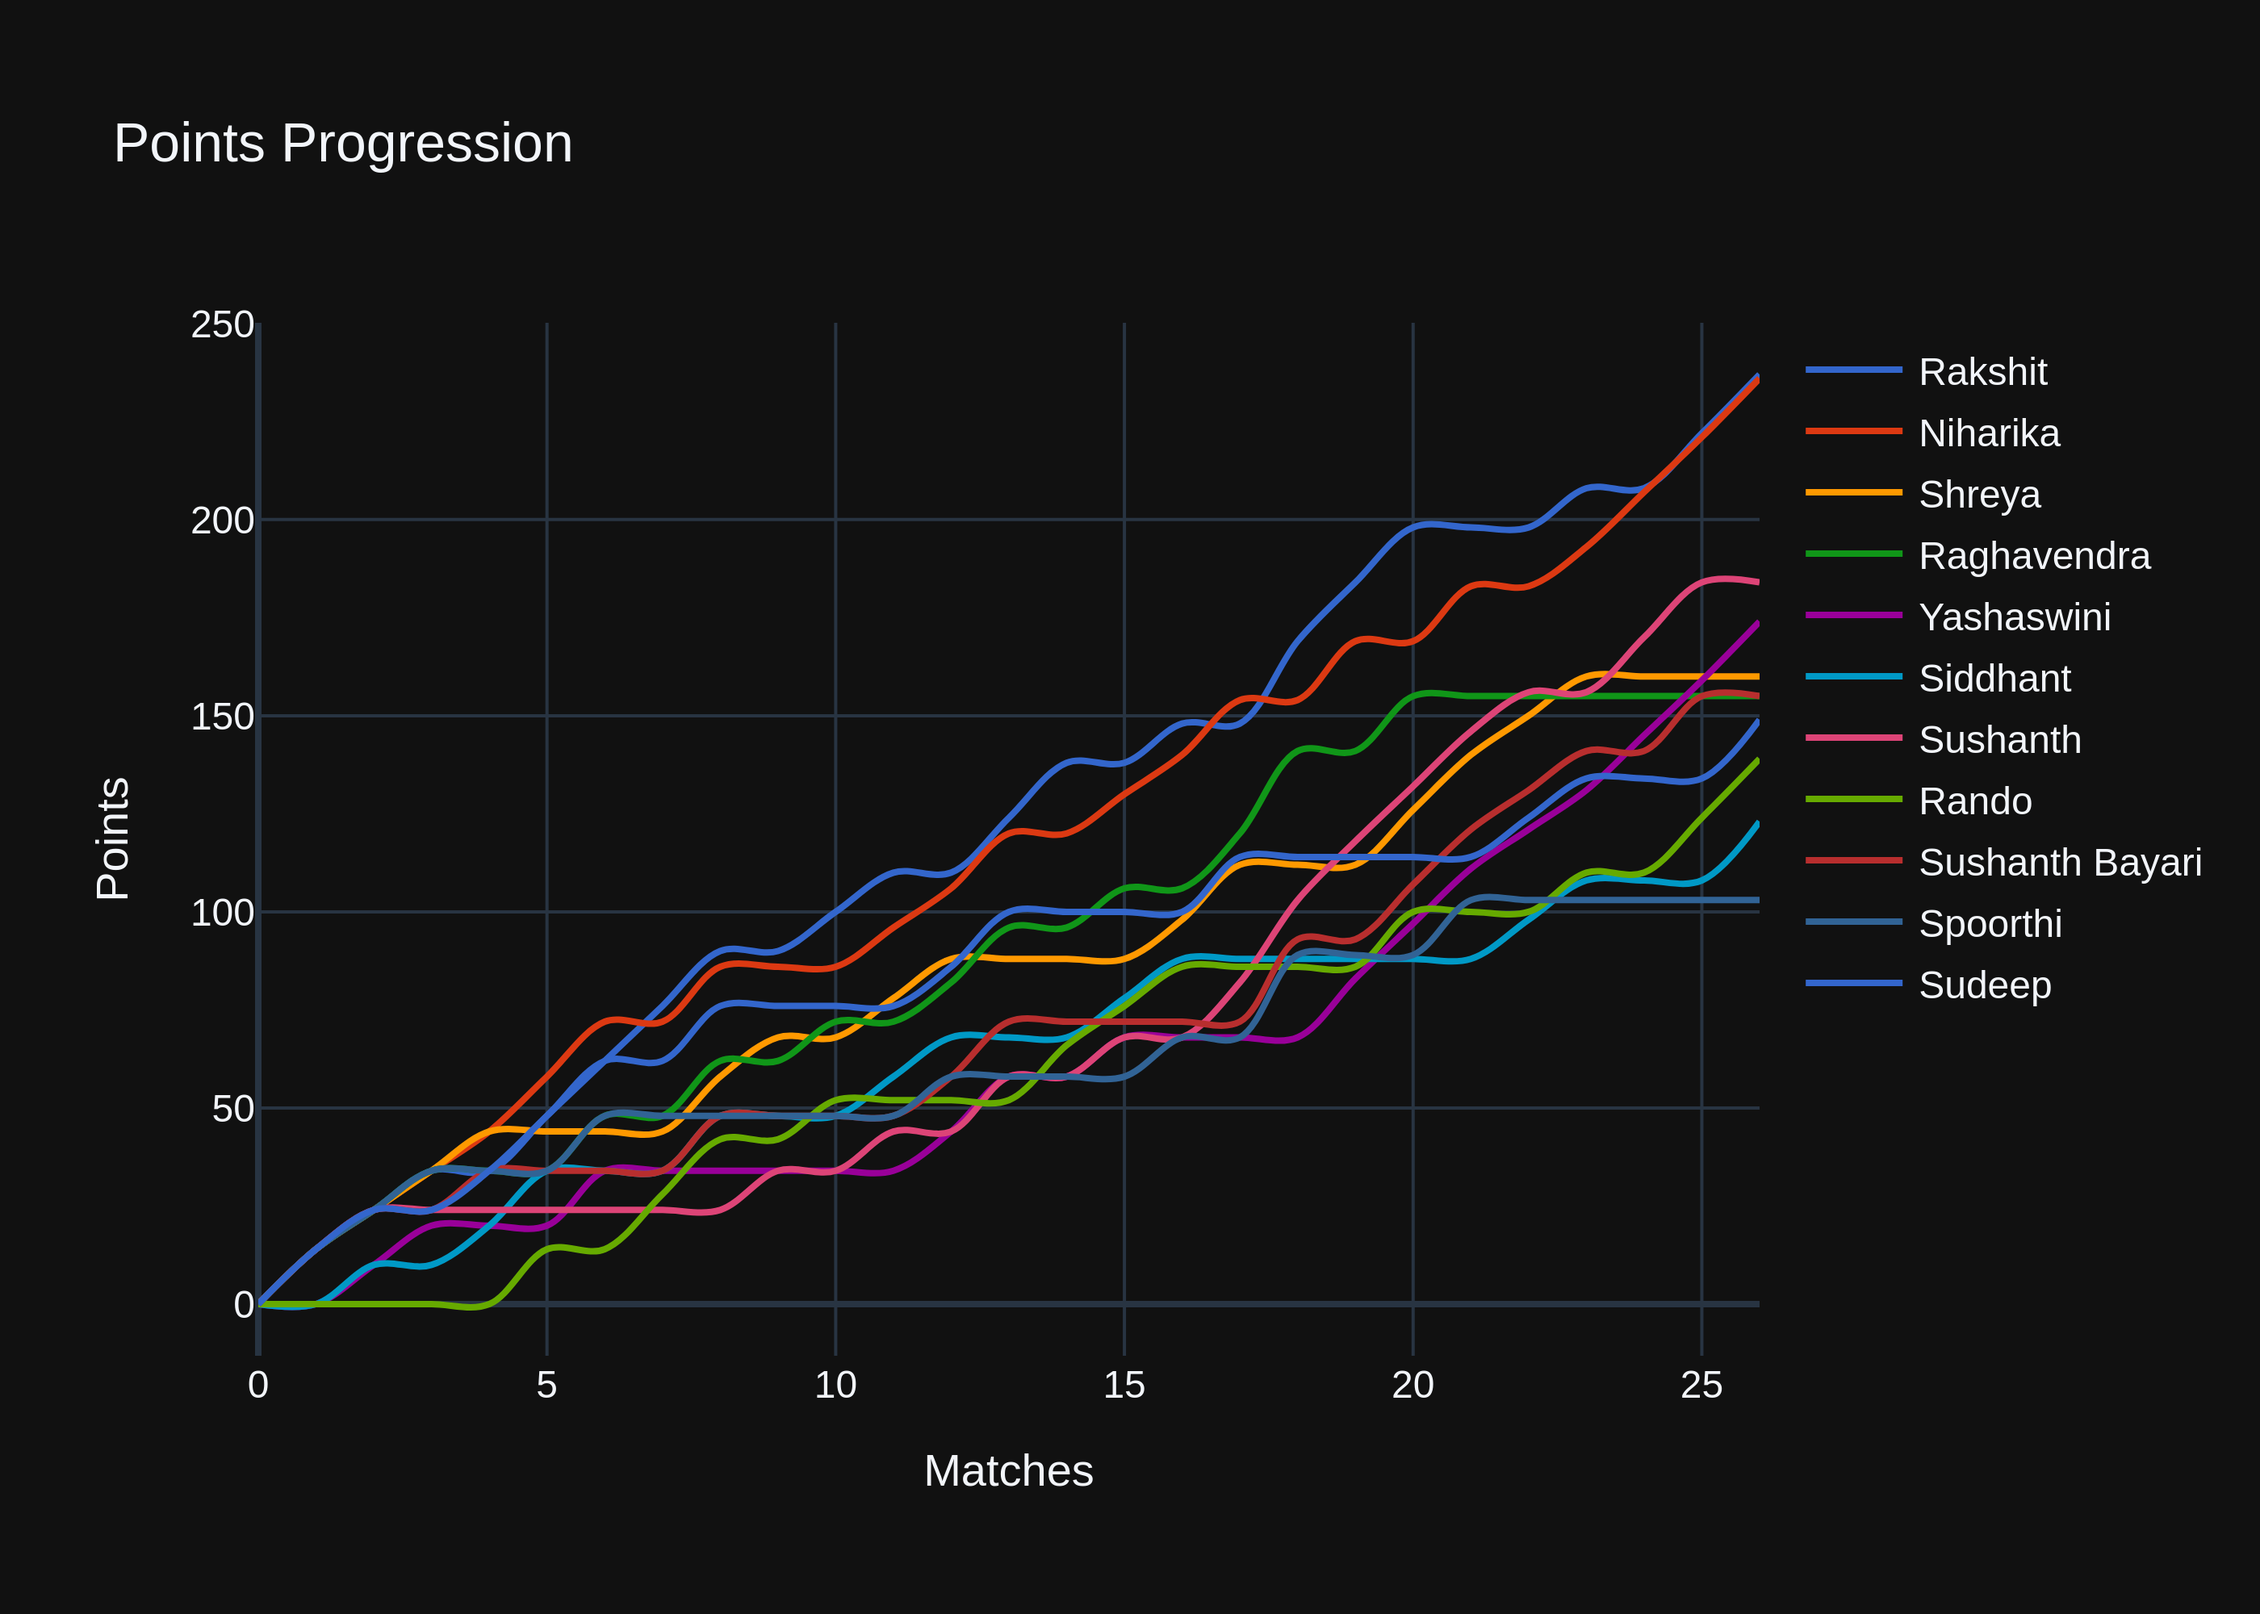
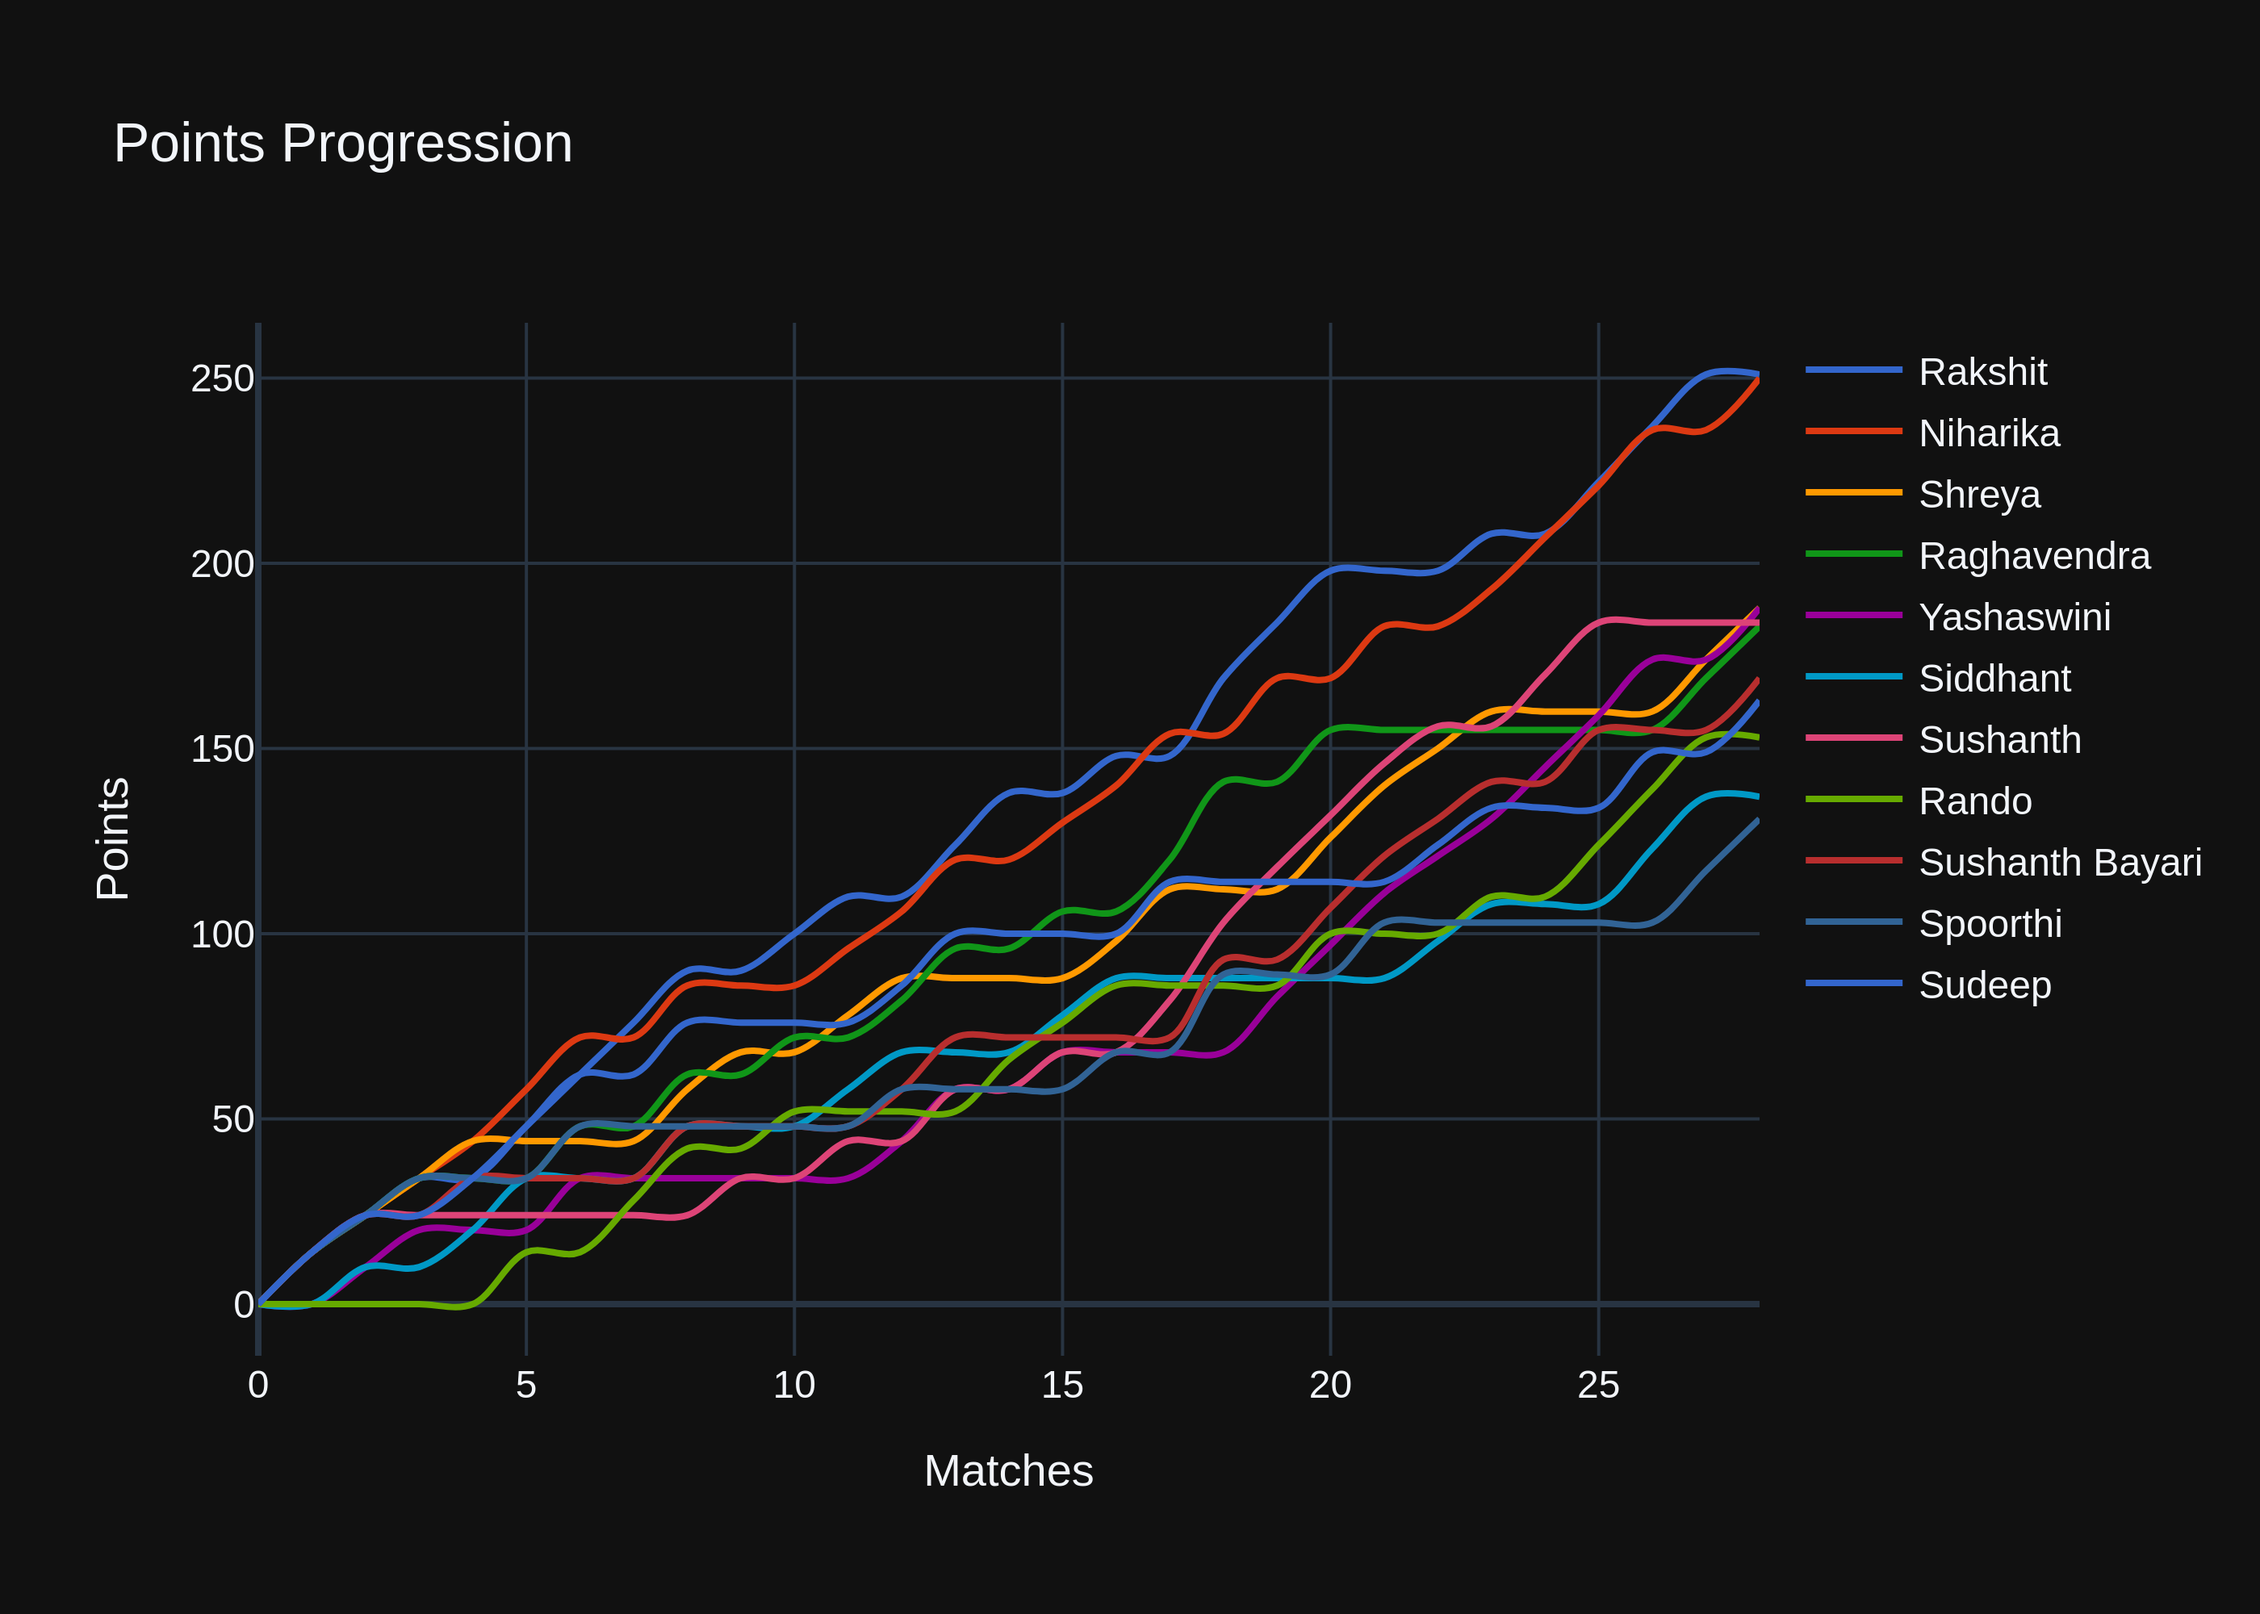
updated until RR vs RCB

diff --git a/ExtractAndTransform.py b/ExtractAndTransform.py
@@ -62,6 +62,12 @@ def calculate_scores(results_df, predictions):
         # total_predicted_points = 0
         # total_bonus_points = 0
         last_five_results = []
+        longest_winning_streak = 0
+        current_winning_streak = 0
+        winning_period = ""
+        longest_losing_streak = 0
+        current_losing_streak = 0
+        losing_period = ""
 
         for i, row in completed_matches.iterrows():
             actual_winner = row["Winner"]
@@ -78,7 +84,17 @@ def calculate_scores(results_df, predictions):
                 score += points_earned
                 correct_predictions += 1
                 last_five_results.append("✅")
+                current_winning_streak +=1
+                current_losing_streak = 0
+                if current_winning_streak >= longest_winning_streak:
+                    longest_winning_streak = current_winning_streak
+                    winning_period = completed_matches.iloc[i-longest_winning_streak+1]["Date"] + " - " + row["Date"]  
             else:
+                current_losing_streak += 1 
+                current_winning_streak = 0
+                if current_losing_streak >= longest_losing_streak:
+                    longest_losing_streak = current_losing_streak
+                    losing_period = completed_matches.iloc[i-longest_losing_streak+1]["Date"] + " - " + row["Date"]
                 last_five_results.append("❌")
             
             matchwise_points.append(points_earned)
@@ -92,7 +108,11 @@ def calculate_scores(results_df, predictions):
             # "Total Predicted Points": total_predicted_points,
             # "Bonus Points": total_bonus_points,
             "Matchwise Points (Last 5)": matchwise_points[-5:],
-            "Last 5 Matches": " ".join(last_five_results[-5:])
+            "Last 5 Matches": " ".join(last_five_results[-5:]),
+            "Longest Winning Streak": longest_winning_streak,
+            "Longest Losing Streak": longest_losing_streak,
+            "Winning Period": winning_period,
+            "Losing Period": losing_period,
         })
 
     return pd.DataFrame(leaderboard).sort_values(by="Points", ascending=False), points_progression

diff --git a/Dashboard.py b/Dashboard.py
@@ -92,10 +92,6 @@ def main():
     total_leaderboard["Change"] = total_leaderboard["Points Difference"].apply(ExtractAndTransform.format_arrow)
     leaderboard_df = pd.merge(total_leaderboard[['Participant','Change']], leaderboard_df, on="Participant")
     leaderboard_df["Rank"] = leaderboard_df["Points"].rank(method="dense", ascending=False).astype(int)
-    col = leaderboard_df.pop("Rank")
-    col2 = leaderboard_df.pop("Change")
-    leaderboard_df.insert(0, "Rank", col)
-    leaderboard_df.insert(3, "Change", col2)
     leaderboard_df = leaderboard_df.sort_values(by="Rank").reset_index(drop=True)
     leaderboard_df["Matchwise Points (Last 5)"] = leaderboard_df["Matchwise Points (Last 5)"].apply(format_matchwise_points)
     matchwise_df = ExtractAndTransform.matchwise_predictions(schedule_df, predictions)
@@ -104,13 +100,14 @@ def main():
 
     with tab1:         
         st.subheader("Leaderboard")
-        st.write(leaderboard_df.to_html(escape=False, index=False), unsafe_allow_html=True)
+        st.write(leaderboard_df[["Rank","Participant","Points",'Change','Accuracy (%)','Matchwise Points (Last 5)','Last 5 Matches']].to_html(escape=False, index=False), unsafe_allow_html=True)
         number_of_outcomes, outcomes_string = ExtractAndTransform.format_outcomes(results_df)
         st.markdown(f'##### Total Possible Outcomes for Remaining League Matches : **{outcomes_string}** ({number_of_outcomes:,}) outcomes') 
 
         st.write('\n\n')
         st.subheader("Points Progression Worm")
         st.plotly_chart(Plotting.plot_worm_graph(points_progression), use_container_width=True)
+        # st.write(leaderboard_df, use_container_width=True)
 
     st.write('\n\n')
 
